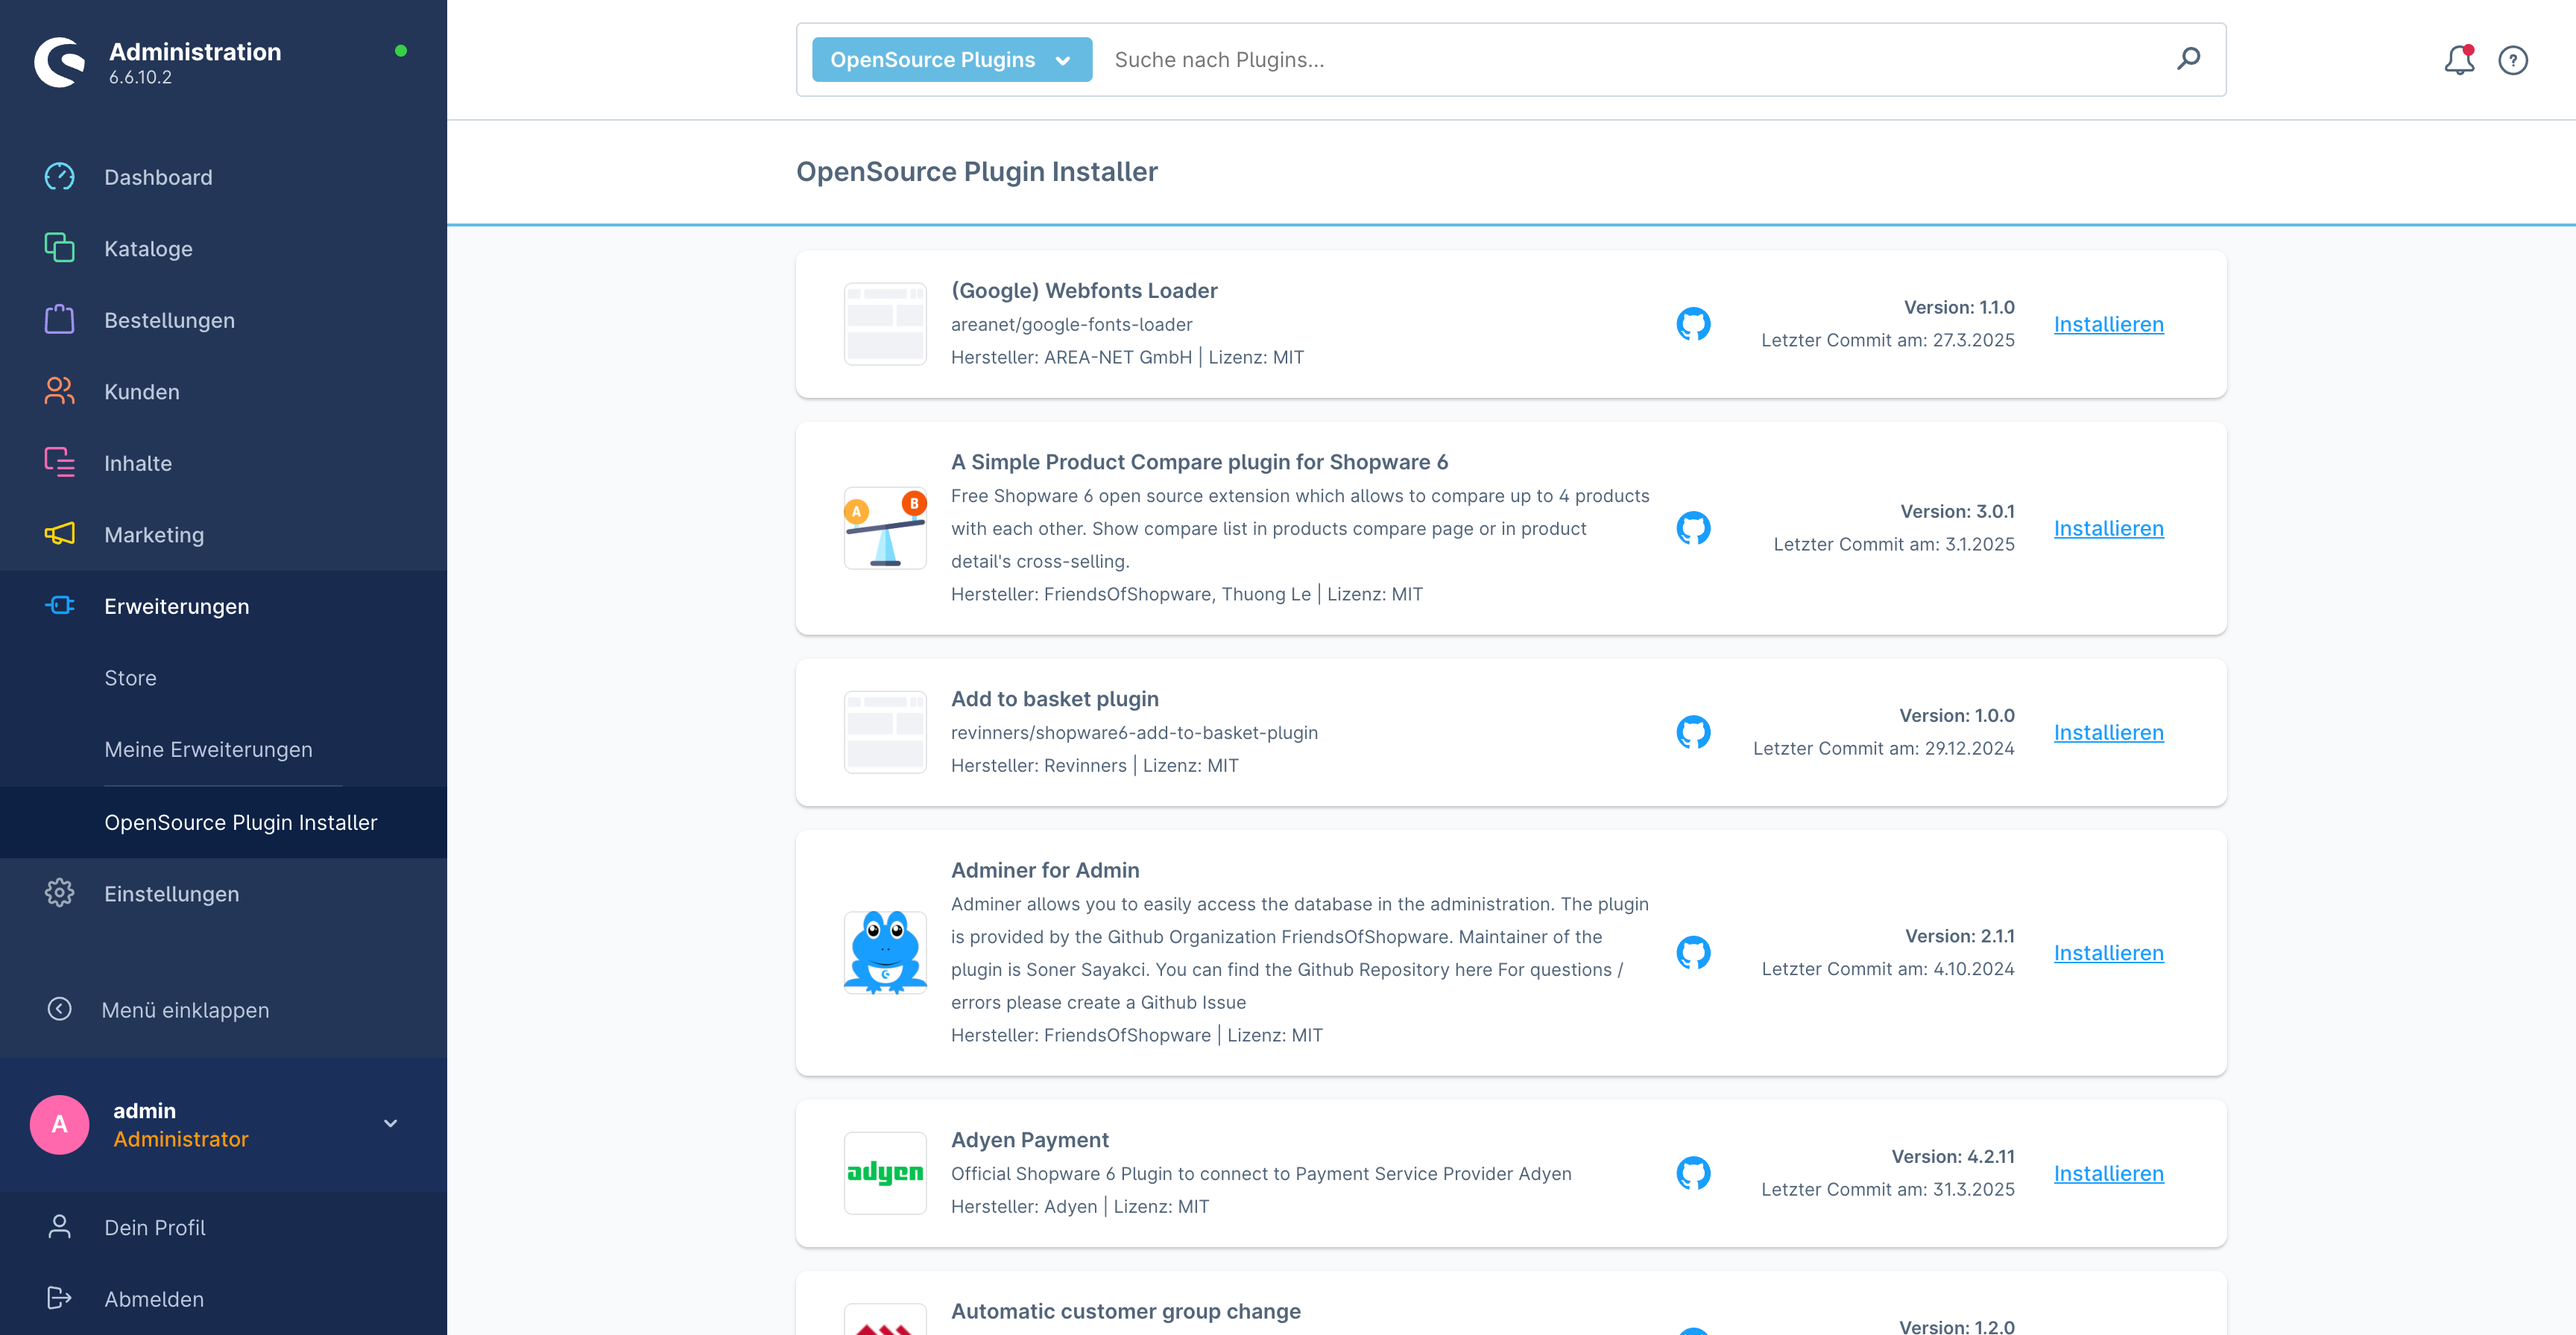
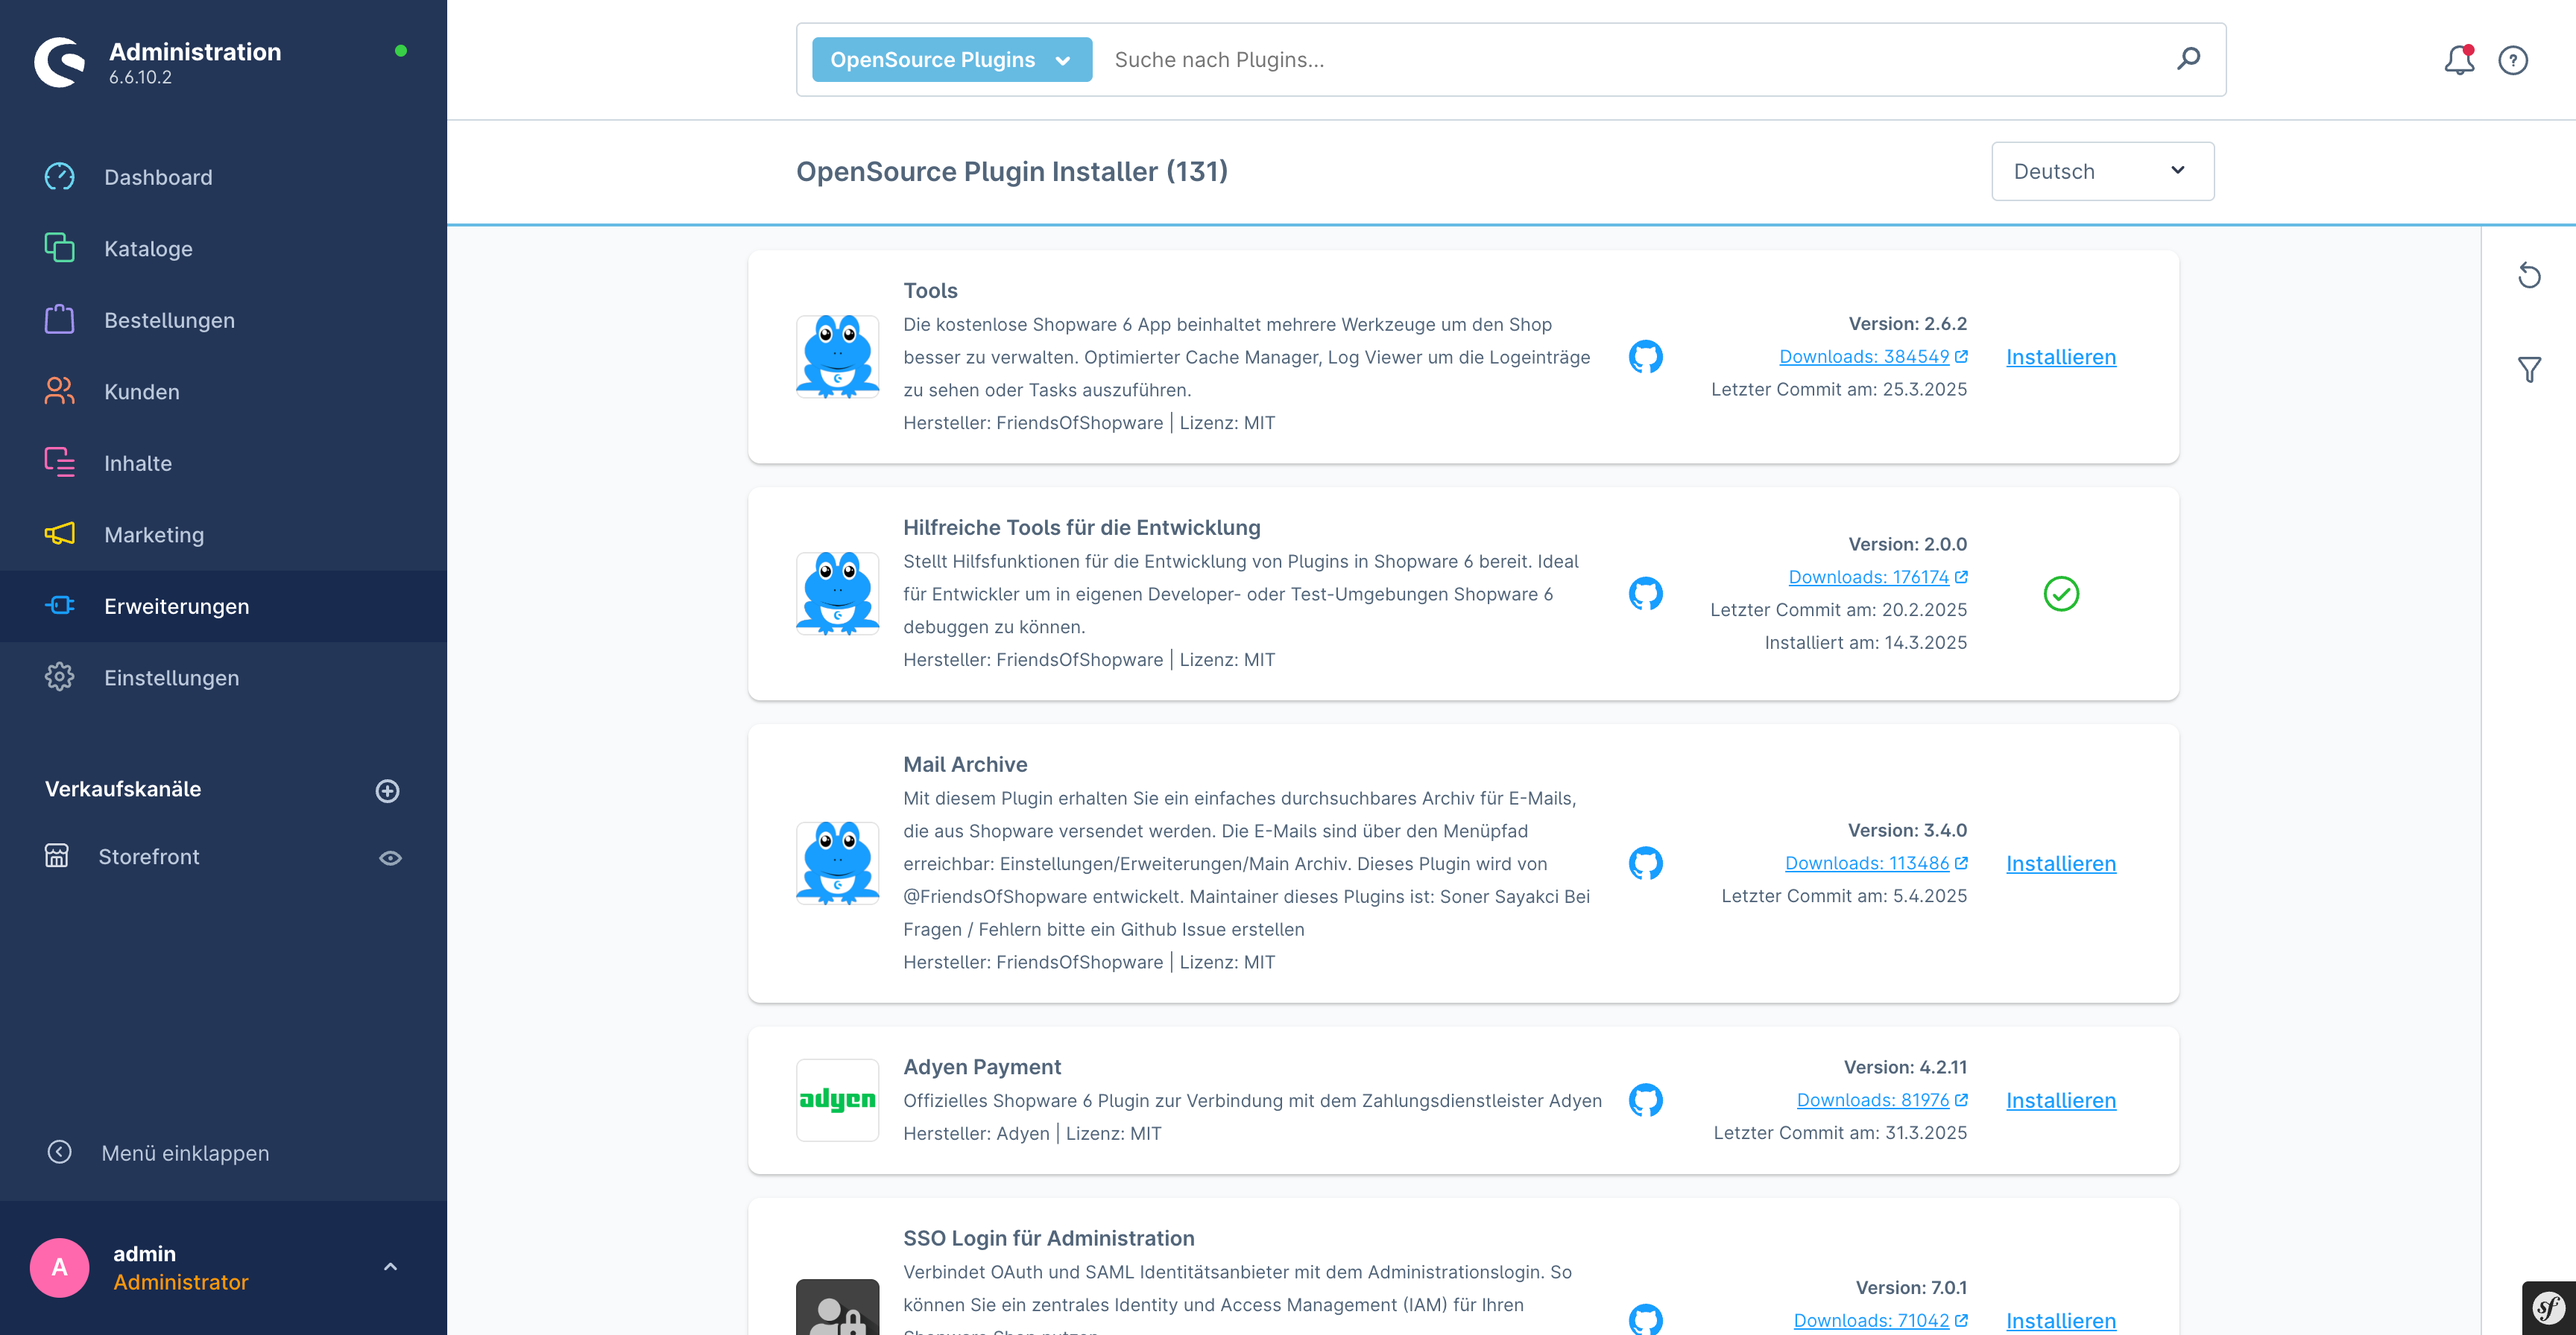
docs(screenshots): create new screenshots

diff --git a/README.md b/README.md
@@ -11,6 +11,13 @@ This plugin will also keep itself up to date as it is available through https://
 
 ## Screenshots
 
+### English
+
 ![Plugin List EN](./src/Resources/store/images/en/0.png)
+![Plugin List EN](./src/Resources/store/images/en/1.png)
+
+### German
 
 ![Plugin List EN](./src/Resources/store/images/de/0.png)
+![Plugin List EN](./src/Resources/store/images/de/1.png)
+![Plugin List EN](./src/Resources/store/images/de/2.png)
